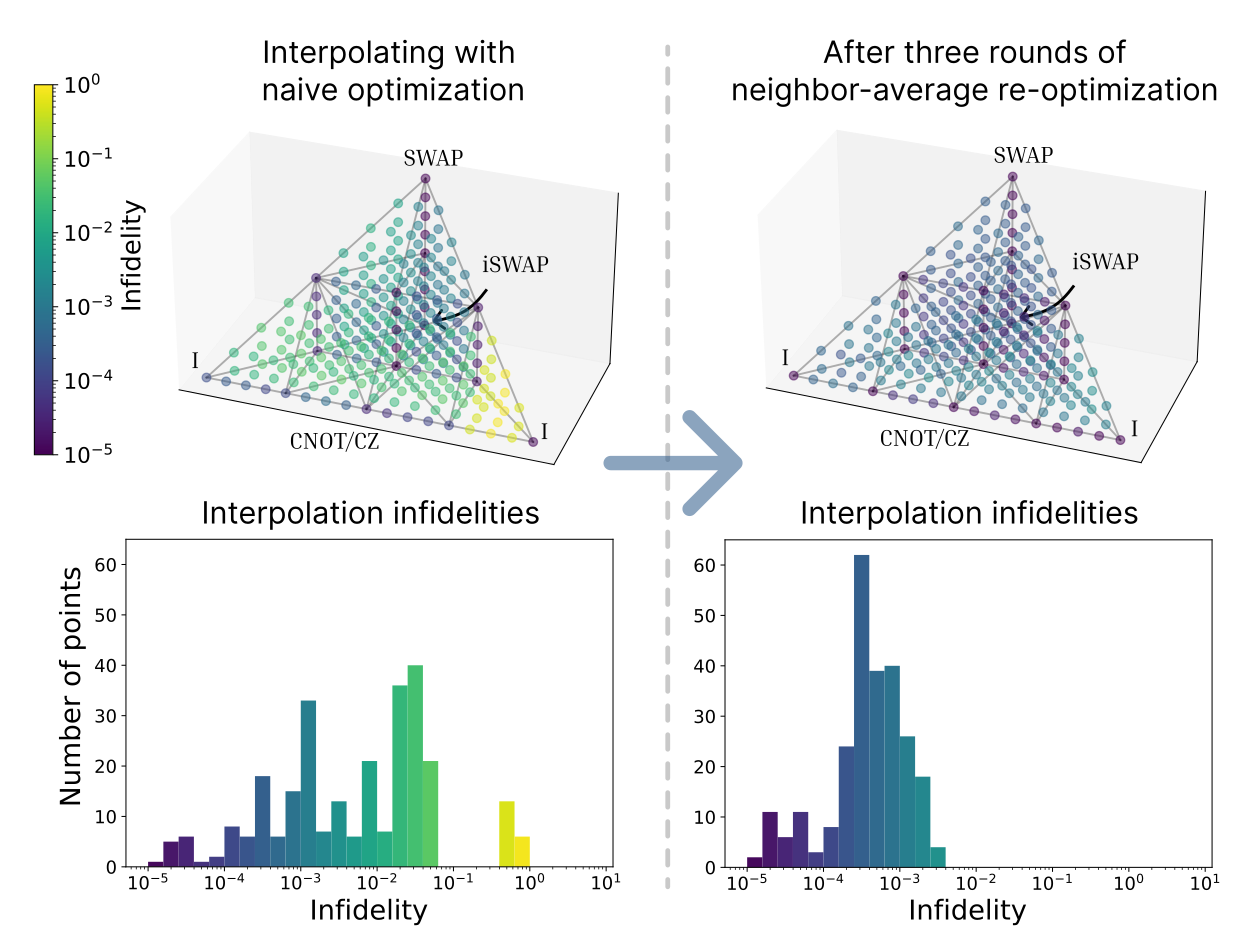
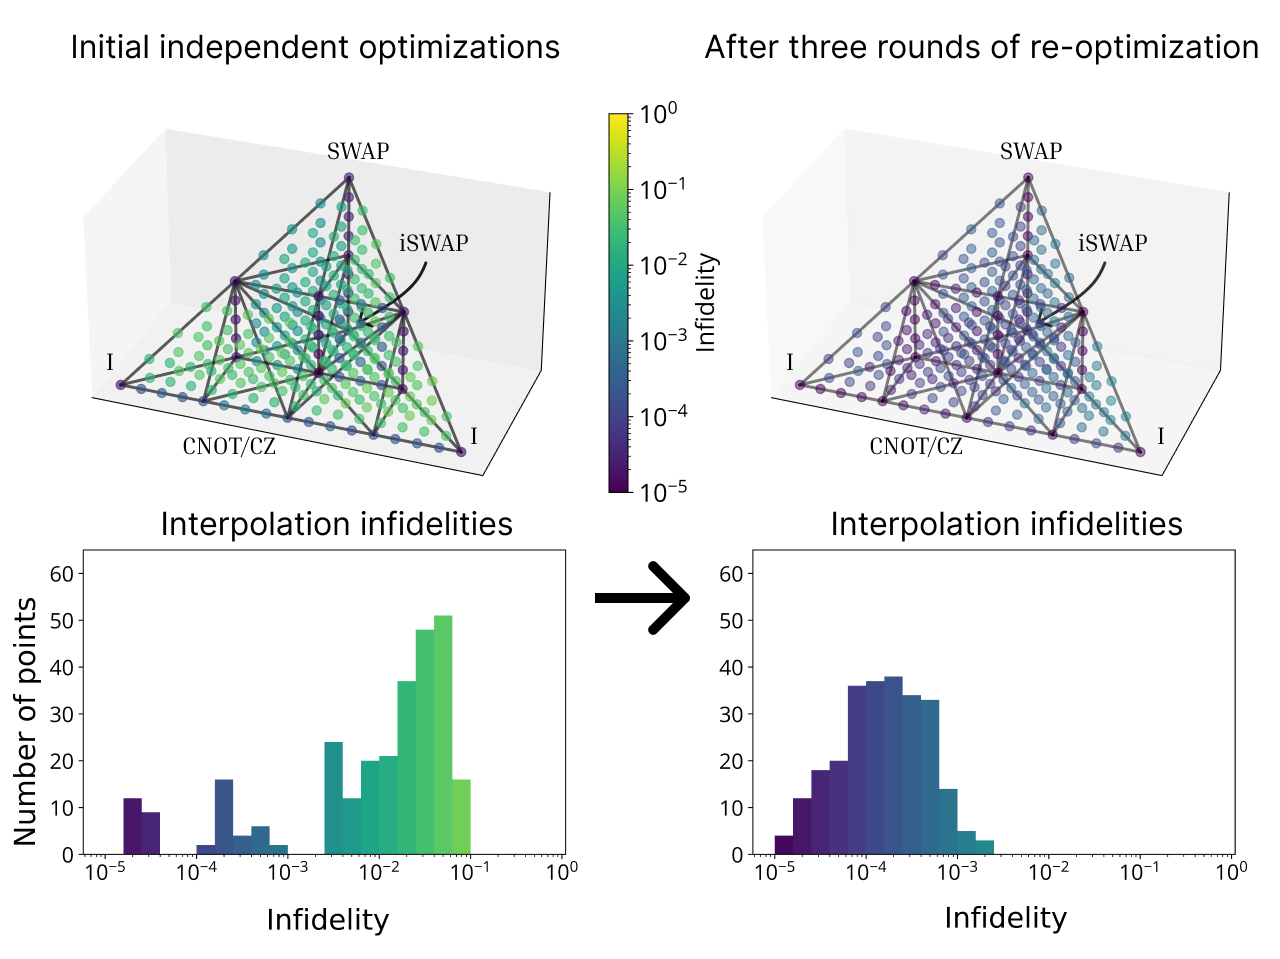
change reoptimization figs; add initial waltz placeholder

diff --git a/projects/waltz/abstract.md b/projects/waltz/abstract.md
@@ -1,0 +1,3 @@
+Superconducting quantum devices are a leading technology for quantum computation, but they suffer from several challenges.  Gate errors, coherence errors and a lack of connectivity all contribute to low fidelity results. In particular, connectivity restrictions enforce a gate set that requires three-qubit gates to be decomposed into one- or two-qubit gates.  This substantially increases the number of two-qubit gates that need to be executed. However, many quantum devices have access to higher energy levels.  We can expand the qubit abstraction of $\ket{0}$ and $\ket{1}$ to a ququart which has access to the $\ket{2}$ and $\ket{3}$ state, but with shorter coherence times.  This allows for two qubits to be encoded in one ququart, enabling increased virtual connectivity between physical units from two adjacent qubits to four fully connected qubits. This connectivity scheme allows us to more efficiently execute three-qubit gates natively between two physical devices.
+
+We present direct-to-pulse implementations of several three-qubit gates, synthesized via optimal control, for compilation of three-qubit gates onto a superconducting-based architecture with access to four-level devices with the first experimental demonstration of four-level ququart gates designed through optimal control.  We demonstrate strategies that temporarily use higher level states to perform Toffoli gates and always use higher level states to improve fidelities for quantum circuits.  We find that these methods improve expected fidelities with increases of 2x across circuit sizes using intermediate encoding, and increases of 3x for fully-encoded ququart compilation.

diff --git a/projects/waltz/index.md b/projects/waltz/index.md
@@ -1,0 +1,28 @@
+---
+title: "Dancing the Quantum Waltz: Compiling Three-Qubit Gates on Four Level Architectures"
+layout: project
+publisher: International Symposium on Computer Architecture (ISCA)
+image: /assets/img/projects/waltz/hero.png
+abstract: abstract.md
+items:
+authors:
+    - name: "Andrew Litteken"
+      link: http://andrewlitteken.com/
+      affiliation: University of Chicago
+    - name: "Lennart Maximilian Seifert"
+      link: https://scholar.google.com/citations?user=k6RYl7kAAAAJ&hl=en&inst=5778974199078678248
+      affiliation: University of Chicago
+    - name: "Jason D. Chadwick"
+      affiliation: University of Chicago
+    - name: "Natalia Nottingham"
+      link: 
+      affiliation: University of Chicago
+    - name: "Jonathan M. Baker"
+      link: https://www.jonathanmarkbaker.com/
+      affiliation: University of Chicago
+    - name: "Frederic T. Chong"
+      link: https://people.cs.uchicago.edu/~ftchong/
+      affiliation: University of Chicago
+      last: true
+figures:
+---

diff --git a/projects/qompress/index.md b/projects/qompress/index.md
@@ -1,7 +1,7 @@
 ---
 title: "Qompress: Efficient Compilation for Ququarts Exploiting Partial and Mixed Radix Operations for Communication Reduction"
 layout: project
-publisher: 28th ACM International Conference on Architectural Support for Programming Languages and Operating Systems (ASPLOS)
+publisher: International Conference on Architectural Support for Programming Languages and Operating Systems (ASPLOS)
 image: /assets/img/projects/qompress/mixed-radix.png
 abstract: abstract.md
 items:
